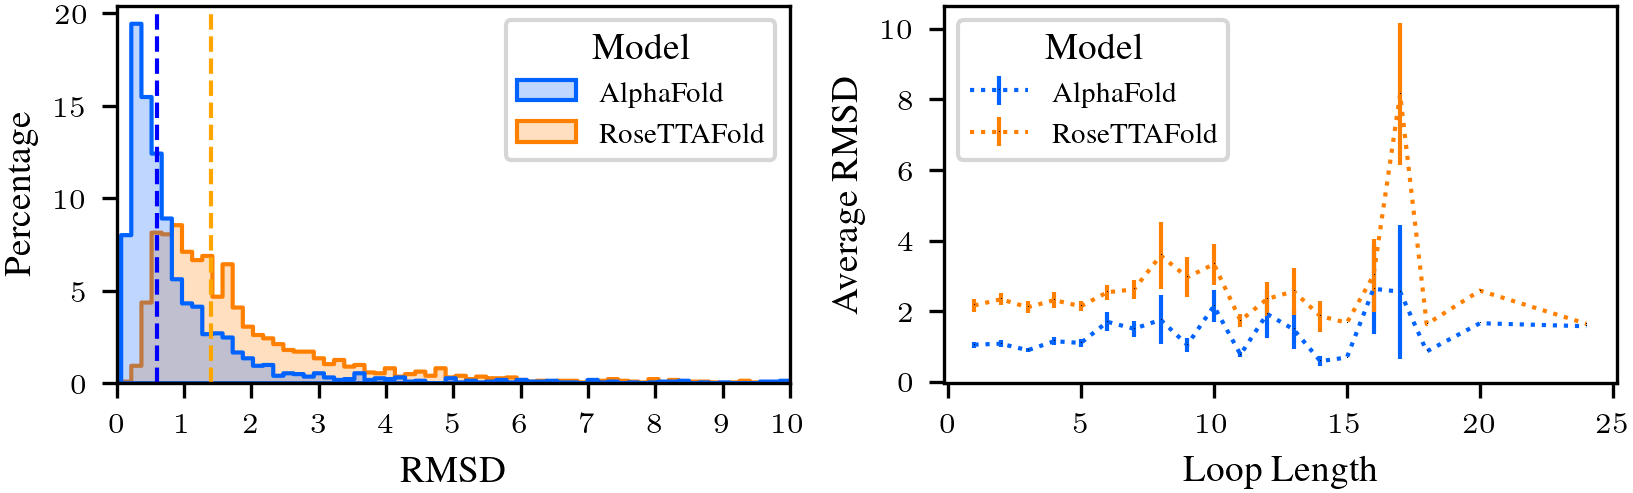
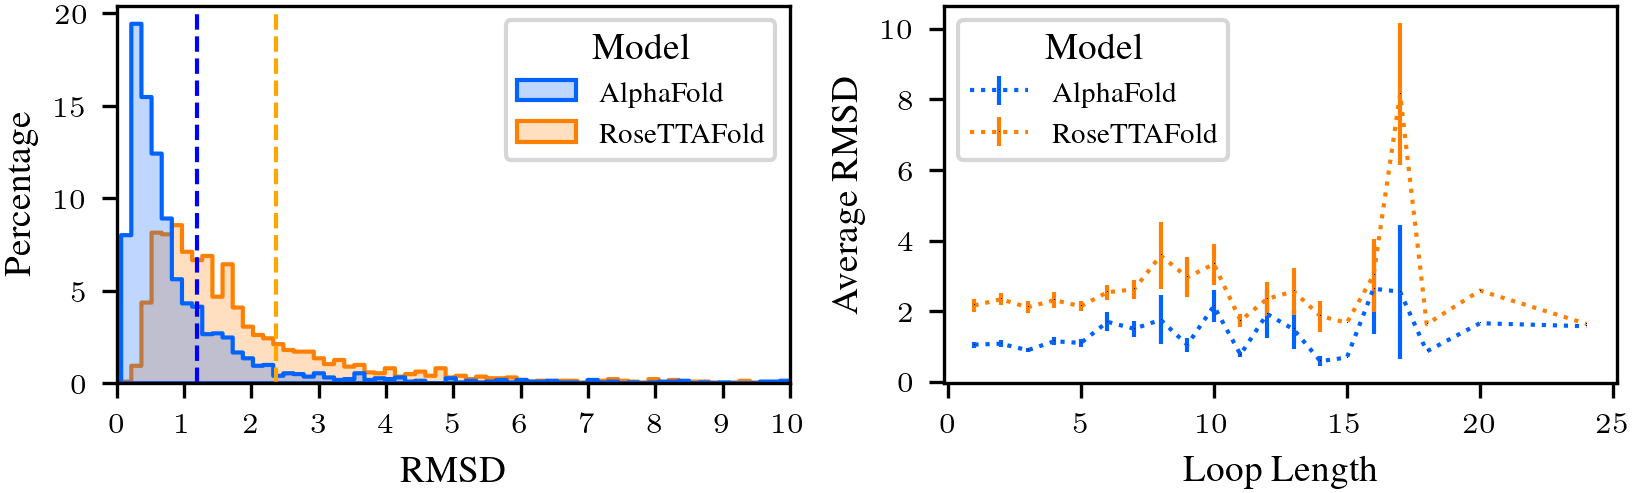
Show mean as vertical line not median

diff --git a/doc/fig/fig_3_rmsd.py b/doc/fig/fig_3_rmsd.py
@@ -18,8 +18,8 @@ alpha_df = df[df["Model"] == "AlphaFold"]
 rosetta_df = df[df["Model"] == "RoseTTAFold"]
 
 # Calculate the mean RMSD for each model
-mean_alpha = np.median(alpha_df["RMSD"].values)
-mean_ros = np.median(rosetta_df["RMSD"].values)
+mean_alpha = np.mean(alpha_df["RMSD"].values)
+mean_ros = np.mean(rosetta_df["RMSD"].values)
 
 # Create a figure with two subplots
 fig, (ax1, ax2) = plt.subplots(1, 2)
